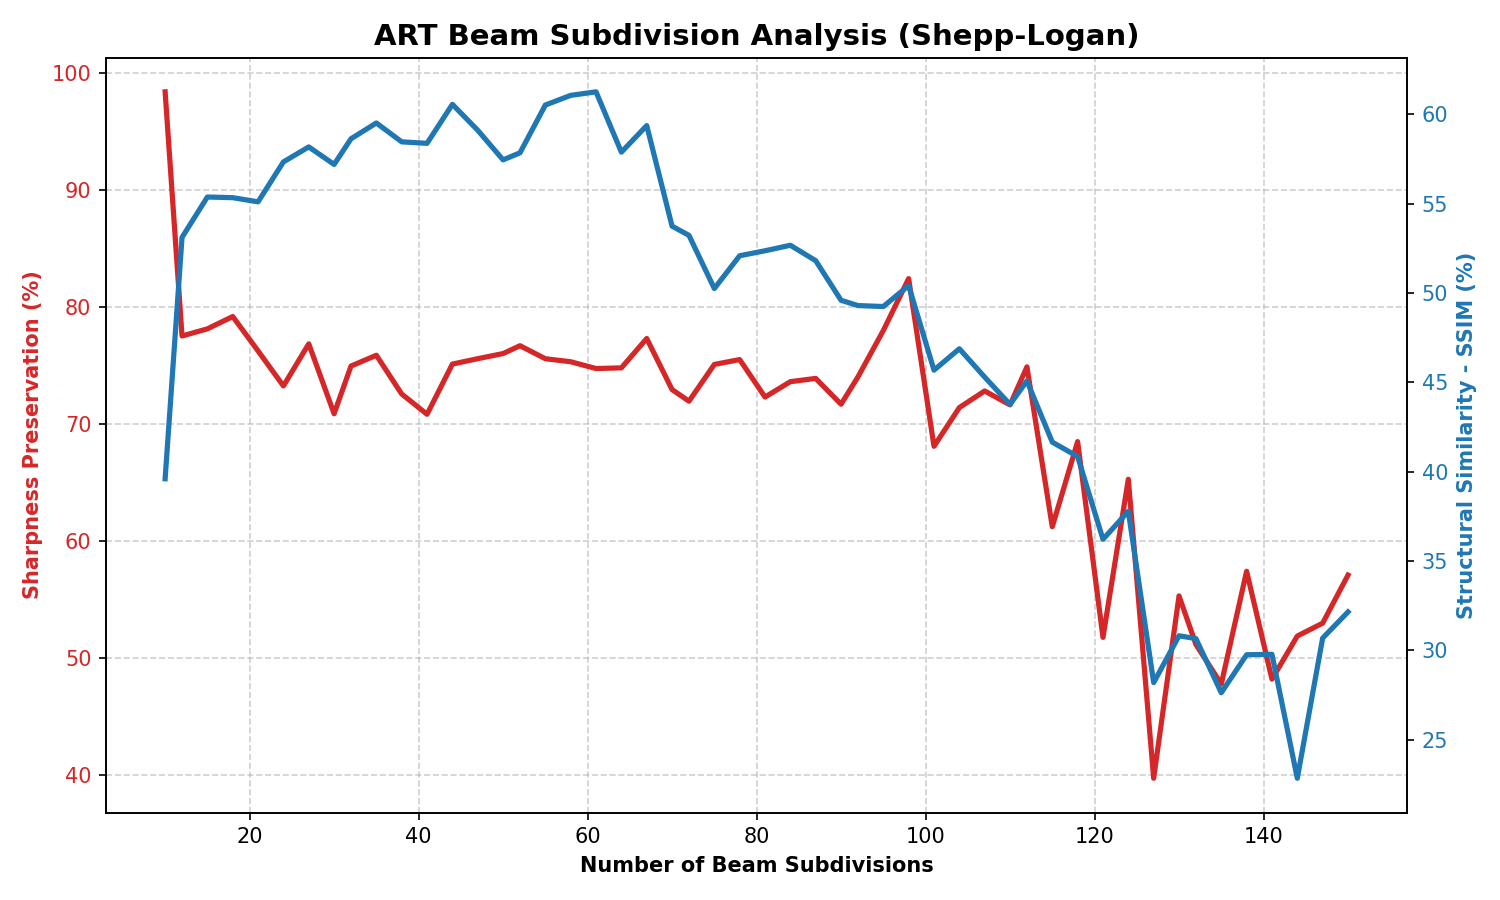
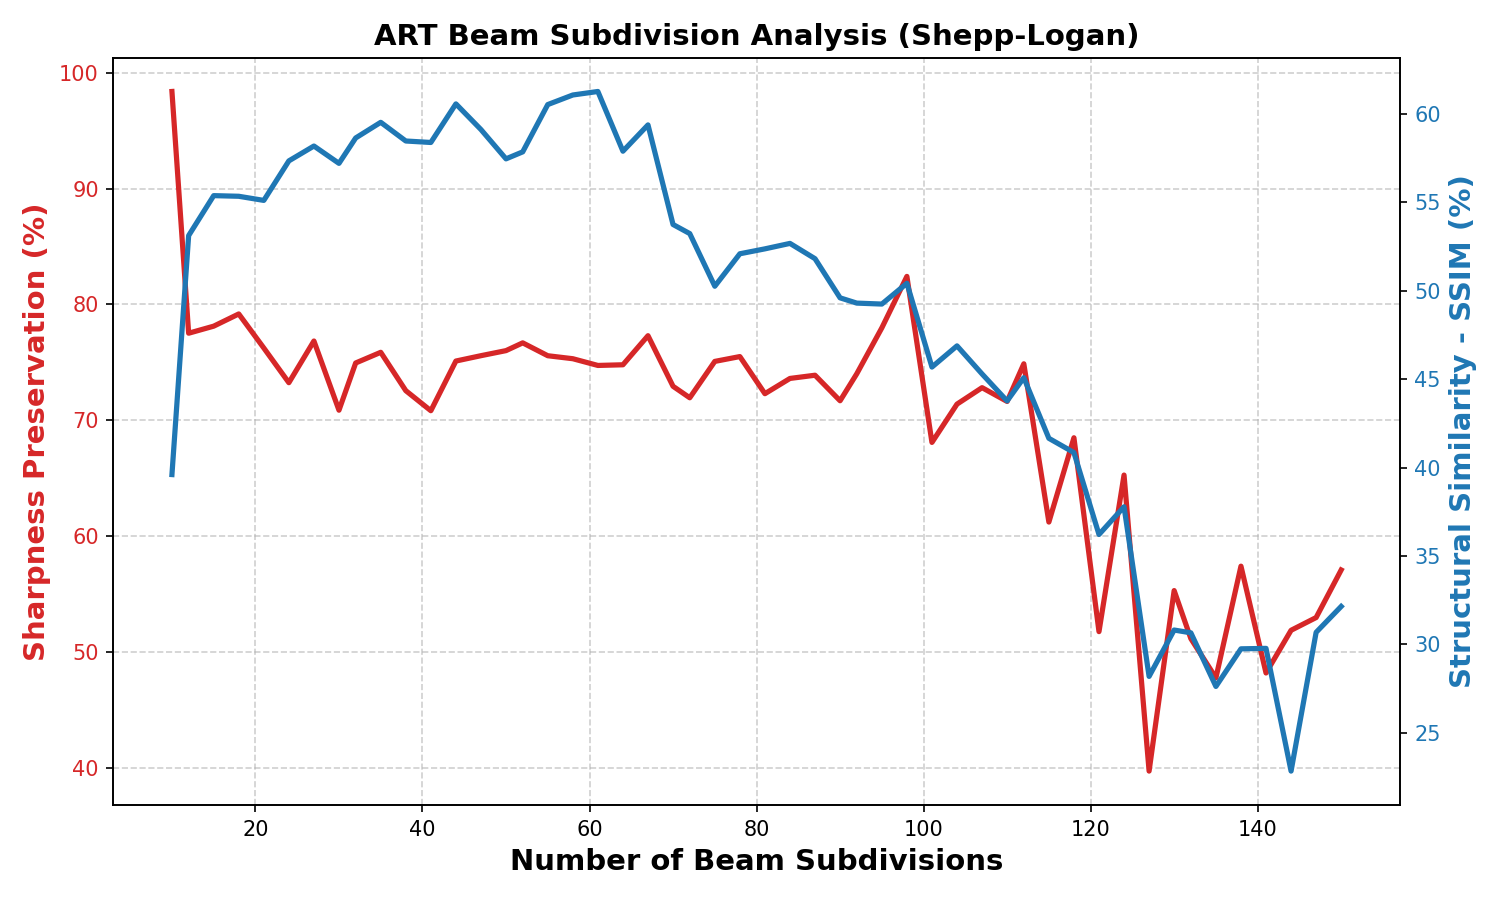
tweaks

diff --git a/models/FBP_SSIM.py b/models/FBP_SSIM.py
@@ -60,7 +60,7 @@ x_true = np.log10(np.clip(
 true_img = x_true.reshape(n, n)
 true_img = cv.resize(cv.imread(f"test_images/{image_name}", cv.IMREAD_GRAYSCALE), (n, n)).astype(np.float32)/255
 
-sigma = 0.0
+sigma = 0.
 noisy_image = phantom + np.random.normal(0, sigma, phantom.shape)
 noisy_image = np.clip(noisy_image, 0, 1)
 cv.imwrite("test_images/temp_noisy.png", (noisy_image * 255).astype(np.uint8))
@@ -100,10 +100,15 @@ def get_edge_sharpness(image, global_min, global_max, threshold_ratio=0.12):
 
 s_true, clean_edges = get_edge_sharpness(true_img, g_min, g_max, threshold_ratio=0.0)
 
+iterations = 25
+
 w_iterations = [0, 1, 2, 3, 4, 5, 6, 7, 8, 9, 10, 11, 12, 13, 14, 15, 16, 17, 18, 19, 20, 21, 22, 23, 24, 25]
+w_iterations = np.linspace(0, iterations, iterations+1, dtype=int)
+#w_iterations = [0, 5, 10, 15, 20, 25]
 #w_iterations = [0, 5, 10, 15, 20]
 
 w_strengths = [0.1, 0.2, 0.3, 0.4, 0.5, 0.6, 0.7, 0.8, 0.9, 1.0]
+#w_strengths = [0.1, 0.5, 1.0]
 #w_strengths = [0.2, 0.4, 0.6, 0.8, 1.0]
 
 ssims = np.zeros((len(w_iterations), len(w_strengths)))
@@ -127,7 +132,7 @@ best_preservation_params = None
 # Parameter sweep for window strength and iterations
 for i, w_iter in enumerate(w_iterations):
     for j, w_str in enumerate(w_strengths):
-        x_recon = FBP_window_solver(A, b, num_iterations=25, lambda_val=1, window_strength=w_str, window_iterations=w_iter)
+        x_recon = FBP_window_solver(A, b, num_iterations=iterations, lambda_val=1, window_strength=w_str, window_iterations=w_iter)
         x_corrected = np.flipud(x_recon.reshape(n, n))
         x_norm = (x_corrected - np.min(x_corrected)) / (np.max(x_corrected) - np.min(x_corrected))
         temp_recon_image = x_norm.reshape(n, n)
@@ -157,10 +162,10 @@ for i, w_iter in enumerate(w_iterations):
 print(f'Best SSIM: {best_ssim:.4f}% with parameters: Window Iterations = {best_ssim_params[0]}, Window Strength = {best_ssim_params[1]}')
 print(f'Best Preservation: {best_preservation:.2f}% with parameters: Window Iterations = {best_preservation_params[0]}, Window Strength = {best_preservation_params[1]}')
 
-x_ssim_optimal = FBP_window_solver(A, b, num_iterations=25, lambda_val=1, window_strength=best_ssim_params[1], window_iterations=best_ssim_params[0])
+x_ssim_optimal = FBP_window_solver(A, b, num_iterations=iterations, lambda_val=1, window_strength=best_ssim_params[1], window_iterations=best_ssim_params[0])
 x_ssim_optimal = np.flipud(x_ssim_optimal.reshape(n, n))
 
-x_preservation_optimal = FBP_window_solver(A, b, num_iterations=25, lambda_val=1, window_strength=best_preservation_params[1], window_iterations=best_preservation_params[0])
+x_preservation_optimal = FBP_window_solver(A, b, num_iterations=iterations, lambda_val=1, window_strength=best_preservation_params[1], window_iterations=best_preservation_params[0])
 x_preservation_optimal = np.flipud(x_preservation_optimal.reshape(n, n))
 
 print(f'Optimal parameters: Window Iterations = {best_ssim_params[0]}, Window Strength = {best_ssim_params[1]}, SSIM = {best_ssim:.4f}')
@@ -173,12 +178,12 @@ plt.figure(figsize=(9,4))
 plt.subplot(1,2,1)
 plt.imshow(true_img, cmap='gray')
 plt.title('Original Reference Phantom')
-plt.text(0.5, -0.1, f'Noise Std Dev: {sigma}', ha='center', va='center', transform=plt.gca().transAxes)
+#plt.text(0.5, -0.1, f'Noise Std Dev: {sigma}', ha='center', va='center', transform=plt.gca().transAxes)
 plt.axis('off')
 
 plt.subplot(1,2,2)
 plt.imshow(x_ssim_optimal, cmap='gray')
-plt.title(f'Optimal Reconstruction\nWindow Iterations {best_ssim_params[0]} | Strength: {best_ssim_params[1]}\nSSIM: {best_ssim:.2f}  |  Edge Preservation: {best_preservation:.2f}%')
+plt.title(f'Optimal Reconstruction\nWindow Iterations {best_ssim_params[0]} | Strength: {best_ssim_params[1]}\nSSIM: {best_ssim:.2f}%  |  Edge Preservation: {best_preservation:.2f}%')
 #plt.xlabel(f'RMSE: {best_rmse:.4f}, Window Iterations: {optimal_w_iter}, Window Strength: {optimal_w_str}')
 #plt.text(0.5, -0.1, f'Window Iterations: {best_ssim_params[0]}\n Window Strength: {best_ssim_params[1]}',
         #ha='center', va='center', transform=plt.gca().transAxes)
@@ -194,19 +199,19 @@ plt.axis('off')
 plt.tight_layout()
 plt.savefig('Shepp_Logan_results_final/FBP_images.png', dpi=300)
 
-plt.figure()
+plt.figure(figsize=(9, 3))
 plt.subplot(1,2,1)
-plt.imshow(ssims, cmap='hot', extent=[min(w_strengths), max(w_strengths), max(w_iterations), min(w_iterations)], aspect='auto')
-plt.title('SSIM Heatmap')
-plt.xlabel('Window Strength')
-plt.ylabel('Window Iterations')
+plt.imshow(ssims.T, cmap='hot', extent=[min(w_iterations), max(w_iterations), min(w_strengths), max(w_strengths)], aspect='auto')
+plt.title('SSIM Heatmap', fontsize=12, fontweight='bold')
+plt.xlabel('Window Iterations', fontsize = 12)
+plt.ylabel('Window Strength', fontsize = 12)
 plt.colorbar(label='SSIM')
 
 plt.subplot(1,2,2)
-plt.imshow(preservations, cmap='hot', extent=[min(w_strengths), max(w_strengths), max(w_iterations), min(w_iterations)], aspect='auto')
-plt.title('Edge Preservation Heatmap')
-plt.xlabel('Window Strength')
-plt.ylabel('Window Iterations')
+plt.imshow(preservations.T, cmap='hot', extent=[min(w_iterations), max(w_iterations), min(w_strengths), max(w_strengths)], aspect='auto')
+plt.title('Edge Preservation Heatmap', fontsize=12, fontweight='bold')
+plt.xlabel('Window Iterations', fontsize=12)
+plt.ylabel('Window Strength', fontsize=12)
 plt.colorbar(label='Edge Preservation (%)')
 
 plt.tight_layout()

diff --git a/models/ARTparam_ssim.py b/models/ARTparam_ssim.py
@@ -116,15 +116,15 @@ print(s_recon)
 fig, ax1 = plt.subplots(figsize=(10, 6))
 
 color = 'tab:red'
-ax1.set_xlabel('Number of Beam Subdivisions', fontweight='bold')
-ax1.set_ylabel('Sharpness Preservation (%)', color=color, fontweight='bold')
+ax1.set_xlabel('Number of Beam Subdivisions', fontweight='bold', fontsize=14)
+ax1.set_ylabel('Sharpness Preservation (%)', color=color, fontweight='bold', fontsize=14)
 line1 = ax1.plot(x, sharpness_scores, color=color, linewidth=2.5, label='Edge Sharpness')
 ax1.tick_params(axis='y', labelcolor=color)
 ax1.grid(True, linestyle='--', alpha=0.6)
 
 ax2 = ax1.twinx()  
 color = 'tab:blue'
-ax2.set_ylabel('Structural Similarity - SSIM (%)', color=color, fontweight='bold')
+ax2.set_ylabel('Structural Similarity - SSIM (%)', color=color, fontweight='bold', fontsize=14)
 line2 = ax2.plot(x, ssim_scores, color=color, linewidth=2.5, label='SSIM')
 ax2.tick_params(axis='y', labelcolor=color)
 
@@ -136,7 +136,7 @@ plt.title('ART Beam Subdivision Analysis (Shepp-Logan)', fontsize=14, fontweight
 plt.tight_layout()
 plt.savefig('Shepp_Logan_results_final/ART_param_sweep.png', dpi=150)
 
-plt.figure(figsize=(9,4))
+plt.figure(figsize=(8,4))
 plt.subplot(1,2,1)
 plt.imshow(true_img, cmap='gray')
 plt.title('True Image')
